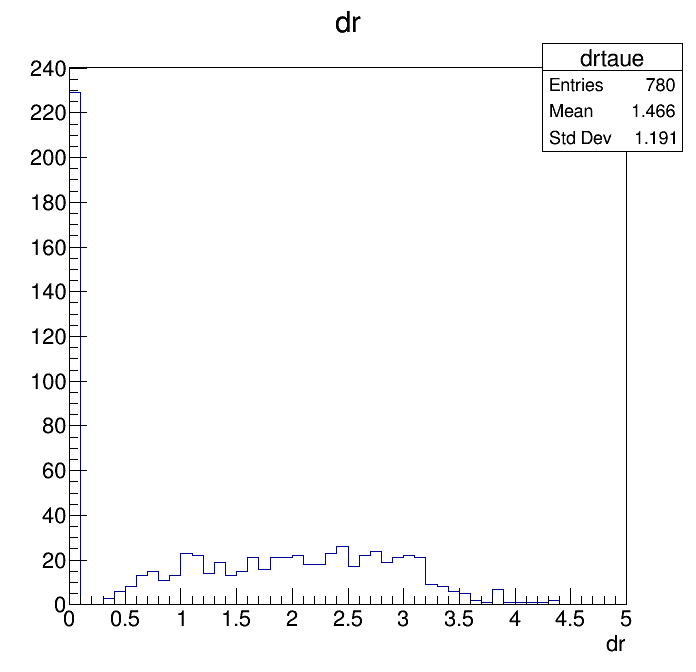
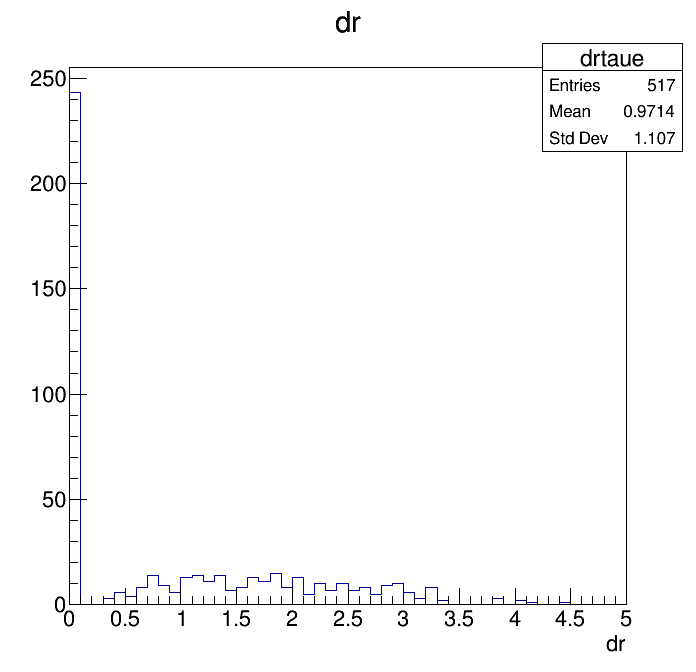
update ana_ee.c efficiency part

diff --git a/ana/ana_ee.c b/ana/ana_ee.c
@@ -31,7 +31,7 @@ void ana_ee(){
     Int_t taunumbers;
     Long64_t neeTotal=0;
     Long64_t nPass[20]={0};
-    Long64_t nelePass[8]={0};
+    Long64_t nelePass[9]={0};
     //Create histrogram
     TH1D *Z_massee = new TH1D("Z_massee", "Z->ee", 150, 0, 150);
     TH1D *elenumb = new TH1D("elenumb", "ee",5,0,5);
@@ -85,17 +85,11 @@ void ana_ee(){
                 vector<bool>& eleIsPassVeto = *((vector<bool>*) data.GetPtr("eleIsPassVeto"));
                 vector<TLorentzVector> goodElectrons;
                 goodElectrons.clear();
-                bool cutee[8]={false};
+                bool cutee[9]={false};
                 vector<int> vetoee;
-                if(nEle==0)
-                {
-                    continue;
-                    cout<<"debug"<<endl;
-                }
                 for(int ie = 0; ie < nEle; ie++)
                 {
                     TLorentzVector* myEle = (TLorentzVector*)eleP4->At(ie);
-                    cutee[0]=true;
                     elePT->Fill(myEle->Pt());
                     //cout<<"PT ="<<myEle->Pt()<<endl;
                     if(myEle->Pt()<20 )
@@ -129,20 +123,19 @@ void ana_ee(){
                 if(goodElectrons.size()>=2)
                 {
                     if(vetoee.size()==0)
-                    {
+                    { 
                         cutee[4]=true;
                     }
                 }
-                if(goodElectrons.size()==0)
-                {
-                    continue;
-                }
+                //cout<<"electron size"<<goodElectrons.size()<<endl;
                 //Sort electron by PT
                 sort(goodElectrons.begin(), goodElectrons.end(), pt_greater);
                 //4. veto tau (use to identified  and  rejected bg)
                 int nTau = data.GetInt("HPSTau_n");
                 TClonesArray* tauP4 = (TClonesArray*) data.GetPtrTObject("HPSTau_4Momentum");
                 vector<bool>& disc_decayModeFinding = *((vector<bool>*) data.GetPtr("disc_decayModeFinding"));// DecayModeFinding metho?
+                vector<bool>& disc_decayModeFindingNewDMs = *((vector<bool>*) data.GetPtr("disc_decayModeFindingNewDMs"));// DecayModeFinding metho?
+                vector<bool>& disc_byMediumIsolationMVA3newDMwLT = *((vector<bool>*) data.GetPtr("disc_byMediumIsolationMVA3newDMwLT"));// DecayModeFinding metho?
                 vector<TLorentzVector> goodtau;
                 goodtau.clear();
                 for(int it=0; it < nTau; it++)
@@ -156,7 +149,11 @@ void ana_ee(){
                     {
                         continue;
                     }
-                    if(!disc_decayModeFinding[it])
+                    if(!disc_decayModeFindingNewDMs[it])
+                    {
+                        continue;
+                    }
+                    if(!disc_byMediumIsolationMVA3newDMwLT[it])
                     {
                         continue;
                     }
@@ -164,7 +161,7 @@ void ana_ee(){
                 }//end of tau loop
                 taunumb->Fill(goodtau.size());
                 bool tauee = false;
-            
+                //cutee[5]=true;
                 if(goodtau.size()>0)
                 {
                     for(int i=0;i<goodtau.size();i++)
@@ -174,64 +171,133 @@ void ana_ee(){
                             double dr = goodtau[i].DeltaR(goodElectrons[j]);
                             drtaue->Fill(dr);
                             //cout<<"dr ="<<dr<<endl;
-                            /*
                             if(goodtau[i].DeltaR(goodElectrons[j])>0.4)
                             {
-                                //tauee = true;
-                                //break;
+                                tauee = true;
+                                break;
                             }
-                            */
+                            
                         }
-                        //if(tauee)
-                        //{
-                        //    break;
-                        //}
+                        if(tauee)
+                        {
+                            break;
+                        }
                 
                     }
-                    //if(tauee)
-                    //{
-                    //    continue;
-                    //}
                 }//End of veto tau
+                if(tauee)
+                {
+                    cutee[5]=true;
+                    //continue;
+                }
                 //Start combination Z boson
-                double PDGZmass=91.1876;
-                double PT1, PT2;
-                double PT;
-                double deltaMass;
-                PT1=goodElectrons[0].Pt();
-                PT2=goodElectrons[1].Pt();
-                cutee[5]=true;
-                if(PT1>25&&PT2>20)
+                if(goodElectrons.size()>=2)
                 {
                     cutee[6]=true;
-                    TLorentzVector Z_boson_ee;
-                    Z_boson_ee=goodElectrons[0]+goodElectrons[1];
-                    deltaMass=abs(PDGZmass-Z_boson_ee.M());
-                    if(deltaMass>15)continue;
-                    cutee[7]=true;
-                    Z_massee->Fill(Z_boson_ee.M());
-                }
-                for(int i=0;i<=7;i++)
-                {
-                   if(cutee[i])
+                    double PDGZmass=91.1876;
+                    double PT1, PT2;
+                    double PT;
+                    double deltaMass;       
+                    PT1=goodElectrons[0].Pt();
+                    PT2=goodElectrons[1].Pt();
+                    //cout<<"PT1 = "<<PT1<<endl;
+                    //cout<<"PT2 = "<<PT2<<endl;
+                    if(PT1>25&&PT2>20)
                     {
-                        nelePass[i]++;
-                    }    
+                        cutee[7]=true;
+                        TLorentzVector Z_boson_ee;
+                        Z_boson_ee=goodElectrons[0]+goodElectrons[1];
+                        deltaMass=abs(PDGZmass-Z_boson_ee.M());
+                        if(deltaMass<15)
+                        {
+                            cutee[8]=true;
+                            Z_massee->Fill(Z_boson_ee.M());
+                        }
+                    }
                 }
-
+                //Save Thin Jet some variable
+                //vector<bool>& disc_decayModeFinding = *((vector<bool>*) data.GetPtr("disc_decayModeFinding"));// DecayModeFinding metho?
+                
+                int nTHINJets  = data.GetInt("THINnJet");
+                TClonesArray* thinjetP4 = (TClonesArray*) data.GetPtrTObject("THINjetP4");
+                //vector<vector<float>> &THINjetTrackPt = *((vector<vector<float>>*)data.GetPtr("THINjetTrackPt"));
+                //vector<vector<float>> &THINjetTrackImpdz = *((vector<vector<float>>*)data.GetPtr("THINjetTrackImpdz"));
+                //vector<vector<float>> &THINjetTrackImpdxy = *((vector<vector<float>>*)data.GetPtr("THINjetTrackImpdxy"));
+                //vector<vector<float>> &THINjetTrackImpdxyError = *((vector<vector<float>>*)data.GetPtr("THINjetTrackImpdxyError"));
+                vector<float>   *THINjetTrackPt =  data.GetPtrVectorFloat("THINjetTrackPt", nTHINJets);
+                /*
+                for(int i=0; i < nTHINJets; i++)
+                {
+                    TLorentzVector* thisJet = (TLorentzVector*)thinjetP4->At(i);
+                    if(thisJet->Pt()<30)
+                    {
+                        continue;
+                    }
+                    if(fabs(thisJet->Eta())>4.5)
+                    {
+                        continue;
+                    }
+                    for(int j=0;j<THINjetTrackPt[i].size();j++)
+                    {
+                        //cout<<"THINjetTrackPt = "<<THINjetTrackPt[j]<<endl;
+                    }
+                }
+                */
+                //Start Calculate efficiency
+                if(!cutee[1])
+                {
+                    continue;
+                }
+                nelePass[1]++;
+                if(!cutee[2])
+                {
+                    continue;
+                }
+                nelePass[2]++;
+                if(!cutee[3])
+                {
+                    continue;
+                }
+                nelePass[3]++;
+                if(!cutee[4])
+                {
+                   continue;
+                }
+                nelePass[4]++;
+                if(cutee[5])
+                { 
+                    continue;
+                }
+                nelePass[5]++;
+                if(!cutee[6])
+                {
+                    continue;
+                }
+                nelePass[6]++;
+                //
+                if(!cutee[7])
+                {
+                    continue;
+                }
+                nelePass[7]++;
+                if(!cutee[8])
+                {
+                    continue;
+                }
+                nelePass[8]++;
             }//End of Z->ee events 
             
         }//End of loop over entries
         cout<<"nTotal = "<<nTotal<<endl;
         cout<<"neeTotal = "<<neeTotal<<endl;
-        
         cout<<"End of file"<<endl;
-    }
-    for(int i=0;i<8;i++)
+    }//End of loop all files  
+    for(int i=0;i<9;i++)
     {
         cout << "nelePass[" << i << "]= " << nelePass[i] << endl;
         efferr(nelePass[i],neeTotal);
     }
+    
     //cout<<"Totle true 2 electron"<<neeTotal<<endl;
     string outputfile = "../output/test.root";
     // out Tree branches

diff --git a/ana/ana.C b/ana/ana.C
@@ -220,6 +220,8 @@ void ana(){
             //4. veto tau (use to identified  and  rejected bg) 
             int nTau = data.GetInt("HPSTau_n");
             TClonesArray* tauP4 = (TClonesArray*) data.GetPtrTObject("HPSTau_4Momentum");
+            //vector<bool>& disc_decayModeFinding = *((vector<bool>*) data.GetPtr("disc_decayModeFinding"));// DecayModeFinding metho?
+            vector<bool>& disc_decayModeFinding = *((vector<bool>*) data.GetPtr("disc_decayModeFinding"));// DecayModeFinding metho?
             vector<bool>& disc_decayModeFinding = *((vector<bool>*) data.GetPtr("disc_decayModeFinding"));// DecayModeFinding metho?
             vector<TLorentzVector> goodtau;
             goodtau.clear();
@@ -238,6 +240,7 @@ void ana(){
                 {
                     continue;
                 }
+
                 goodtau.push_back(*myTau);
             }//end of tau loop
             bool tauee = false;

diff --git a/ana/draw_zmass.C b/ana/draw_zmass.C
@@ -31,6 +31,7 @@ void draw_zmass()
     var3->Draw("same");
     var4->Draw("same");
 */
+
 /*
     var5->GetXaxis()->SetTitle("numbers");
     var5->GetXaxis()->SetBinLabel(1, "0");
@@ -41,8 +42,18 @@ void draw_zmass()
     var5->GetXaxis()->SetBinLabel(6, "5");
     var5->GetXaxis()->SetBinLabel(7, "6"); 
     var5->Draw();
-*/ 
+*/
 var1->GetXaxis()->SetTitle("dr");
+
+//TH1D *var1Cumu = (TH1D*)var1->GetCumulative(false);
+//cout<<"right = "<<(var1->GetEntries()-var1->GetBinContent(0)-var1->GetBinContent(var1->GetNbinsX()+1))<<endl;
+//cout<<"left = "<<(var1Cumu->GetBinContent(1))<<endl;
+//if((var1Cumu->GetBinContent(1))!=(var1->GetEntries()-var1->GetBinContent(0)-var1->GetBinContent(var1->GetNbinsX()+1)))
+//{
+//    cout<<"bug"<<endl;
+//}
+//var1Cumu->Scale(1/(var1Cumu->GetBinContent(1)));
+//var1Cumu->Draw();
 var1->Draw();
     /*
     TLegend *legend = new TLegend(0.55, 0.65, 0.76, 0.82);
